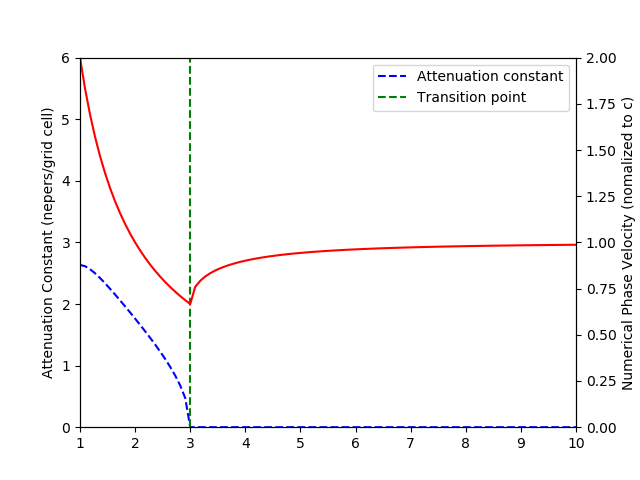
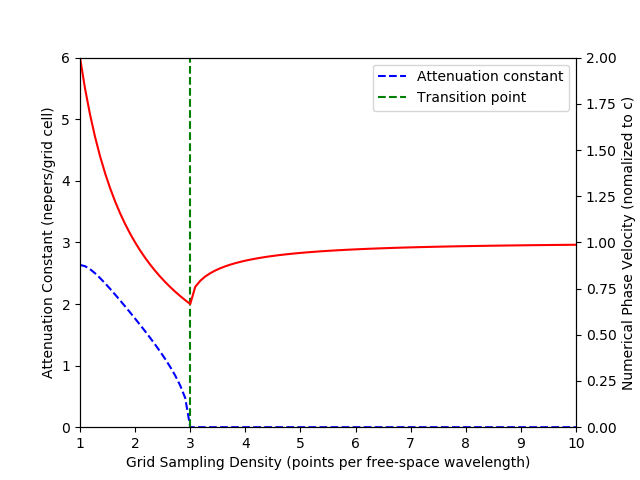
birthday commit

Changed region(s): [[0.1875, 0.9375, 0.8438, 1.0]]

diff --git a/FDTD-wave/wave-FDTD.py b/FDTD-wave/wave-FDTD.py
@@ -4,7 +4,7 @@ import matplotlib.pyplot as plt
 
 um = lambda t: 1 if t >= 0 else 0
 v = lambda n, S: um(n) - um(n-(40/S))
-gauss = lambda n, S: math.exp(-((n*S-40)**2)/200)
+gauss = lambda n, S: math.exp(-((n*S-40)/20)**2)
 
 def FDTD(S, I, N, s):
     u = np.zeros((N,I))
@@ -41,55 +41,67 @@ def fig_2_5():
     plt.ylim(-0.8, 0.6)
     plt.xlim(0, 200)
 
-def fig_2_6():
+def fig_2_6(fig):
     S = lambda i: 1.0005
     I = 220
     N = 400
-    s = lambda n, S: math.exp(-((n-60)**2)/(2*(10**2)))
+    s = lambda n, S: math.exp(-((n-60)/20)**2) 
 
     u = FDTD(S, I, N, s)
 
-    fig, (ax1, ax2) = plt.subplots(2)
-
-    # fig 2.6 (a)
-    ax1.plot(np.array(range(I)), u[200], 'r', label = 'n = 200')
-    ax1.plot(np.array(range(I)), u[210], 'b-', label = 'n = 210')
-    ax1.plot(np.array(range(I)), u[220], 'b--', label = 'n = 220')
+    #fig, (ax1, ax2) = plt.subplots(2)
     
-    # fig 2.6 (b)
-    ax2.plot(np.array(range(20)), u[200][:20], 'r', label = 'n = 200')
-    ax2.plot(np.array(range(20)), u[210][:20], 'b-', label = 'n = 210')
-    ax2.plot(np.array(range(20)), u[220][:20], 'b--', label = 'n = 220')
+    if fig == 'a':
+        # fig 2.6 (a)
+        plt.plot(np.array(range(I)), u[200], 'r', label = 'n = 200')
+        plt.plot(np.array(range(I)), u[210], 'b-', label = 'n = 210')
+        plt.plot(np.array(range(I)), u[220], 'b--', label = 'n = 220')
+        plt.ylim(-0.2, 1.2)
+        plt.xlim(0, 220)
+    elif fig == 'b':
+        # fig 2.6 (b)    
+        plt.plot(np.array(range(22)), u[200][:22], 'r', label = 'n = 200')
+        plt.plot(np.array(range(22)), u[210][:22], 'b-', label = 'n = 210')
+        plt.plot(np.array(range(22)), u[220][:22], 'b--', label = 'n = 220')
+        plt.ylim(-0.045, 0.045)
+        plt.xlim(0, 20)
 
-    #plt.legend()
+    plt.legend()
 
-def fig_2_7():
+
+def fig_2_7(fig):
+    I = 400
+    N = 400
     S = lambda i: 1 if i != 90 else 1.075
-    I = 220
-    N = 300
-    #precisa consertar essa fonte
-    s = lambda n, S: math.exp(-((n-60)**2)/100)
+    s = lambda n, S: math.exp(-(((n-60)/5)**2)) if n < 75 else 0
+    
 
     u = FDTD(S, I, N, s)
 
-    fig, (ax1, ax2) = plt.subplots(2)
+    #fig, (ax1, ax2) = plt.subplots(2)
 
-    # fig 2.7 (a)
-    ax1.plot(np.array(range(I)), u[190], 'r', label = 'n = 190')
-    ax1.plot(np.array(range(I)), u[200], 'b-', label = 'n = 200')
-    
-    # fig 2.7 (b)
-    ax2.plot(np.array(range(40)) + 70, u[190][70:110], 'r', label = 'n = 200')
-    ax2.plot(np.array(range(40)) + 70, u[200][70:110], 'b-', label = 'n = 210')
-    
-    #plt.legend()
-    
+    if fig == 'a':
+        # fig 2.7 (a)
+        plt.plot(np.array(range(I)), u[190], 'r', label = 'n = 190')
+        plt.plot(np.array(range(I)), u[200], 'b--', label = 'n = 200')
+        plt.xlim(0, 160)
+        plt.ylim(-1, 1)
+    elif fig == 'b':    
+        # fig 2.7 (b)
+        plt.plot(np.array(range(40)) + 70, u[190][70:110], 'r', label = 'n = 190')
+        plt.plot(np.array(range(40)) + 70, u[200][70:110], 'b-', label = 'n = 200')
+        plt.xlim(70, 110)
+        plt.ylim(-1, 1)
+        
+    plt.legend()
 
 #fig_2_3_4(1, gauss)
 #fig_2_3_4(0.5, gauss)
 #fig_2_5()
-#fig_2_6()
-#fig_2_7()
+#fig_2_6('a')
+#fig_2_6('b')
+#fig_2_7('a')
+fig_2_7('b')
 plt.ylabel('Wavefunction u(i)')
 plt.xlabel('Grid i coordinate')
 plt.show()

diff --git a/FDTD-wave/part_1.py b/FDTD-wave/part_1.py
@@ -43,8 +43,9 @@ def fig_2_1(S, n):
     ax1.axvline(x = Ntrans(S), color = 'g', linestyle = '--', label = 'Transition point')
     ax1.legend()
     
+    ax1.set_xlabel('Grid Sampling Density (points per free-space wavelength)')
     plt.xlim(1,10)
-    plt.xlabel('Grid Sampling Density (points per free-space wavelength)')
+    
     plt.show()
 
 # fig 2.2
@@ -70,5 +71,7 @@ def fig_2_2(S, n):
     plt.legend()
     plt.show()
 
-#fig_2_1(1/math.sqrt(2), 100)
-fig_2_2(1/2, 100)
+#fig_2_1(1/2, 100)
+#fig_2_2(1/2, 100)
+fig_2_1(1/math.sqrt(2), 100)
+#fig_2_2(1/math.sqrt(2), 100)
